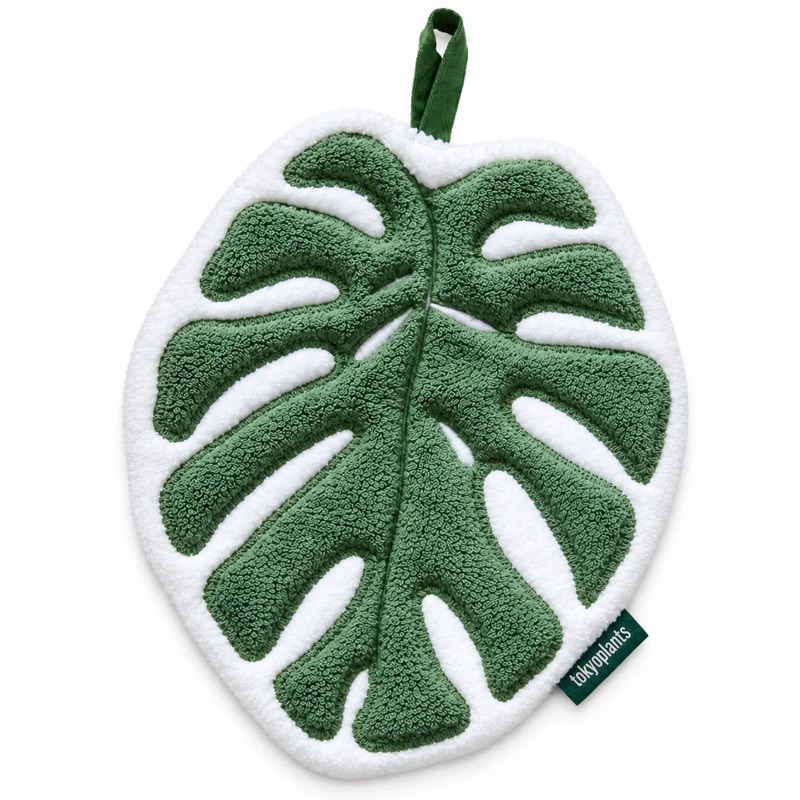
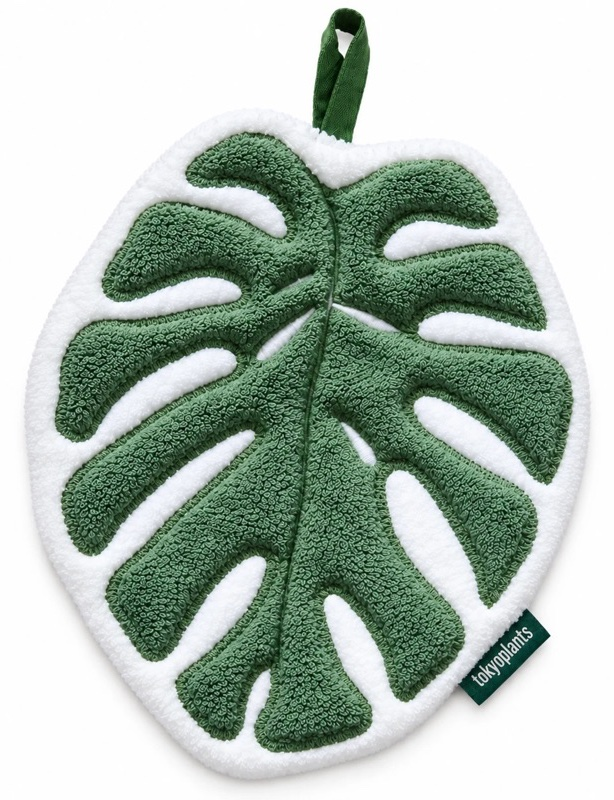
商品写真の並びを揃え、アプリ欄を詰め、カテゴリの新着を横スクロールに統一
- 商品写真の白い余白を切り落とし（切り抜きのみ・画素は変えていない）、枠の下端に揃えて置いた。
  選択ボタンの行はボタンの無いカードにも同じ高さで空け、4商品の高さと接地位置を揃えた
- アプリ欄は上下の余白とスマホ枠を小さくし、縦幅を約737px→532px（PC）に
- カテゴリの新着は「よく読まれている記事」と同じ横スクロールの棚（画面右端まで・矢印つき）に戻し、
  タブの配色もページに合わせた。前回の格子化は見切れの直し方として不適切だった

diff --git a/src/components/home/CollectionCard.tsx b/src/components/home/CollectionCard.tsx
@@ -11,7 +11,13 @@ import type { OwnProduct } from "@/lib/homeStorefront";
 //   color: 色の丸をタップすると、その色の写真に切り替わる（タオル）
 //   size:  容量のボタンで写真と価格が切り替わる（SOILの2L／10L）
 // 切り替えのボタンは全面リンクの上に重ねて押せるようにしている。
-export default function CollectionCard({ product, priority = false }: { product: OwnProduct; priority?: boolean }) {
+export default function CollectionCard({
+  product,
+  priority = false,
+}: {
+  product: OwnProduct;
+  priority?: boolean;
+}) {
   const variants = product.variants ?? [];
   const [active, setActive] = useState(0);
   const variant = variants[active];
@@ -30,9 +36,15 @@ export default function CollectionCard({ product, priority = false }: { product:
       />
       <div className="pointer-events-none relative flex flex-1 flex-col">
         <div className="px-6 pt-7 md:px-7 md:pt-8">
-          <p className="text-[12px] font-semibold text-[#2c6e52]">{product.kind}</p>
-          <h3 className="mt-2 text-[26px] font-semibold leading-[1.15] tracking-[-0.02em] xl:text-[24px]">{product.name}</h3>
-          <p className="mt-3 text-balance text-[14px] font-semibold leading-snug [word-break:auto-phrase]">{product.catchCopy}</p>
+          <p className="text-[12px] font-semibold text-[#2c6e52]">
+            {product.kind}
+          </p>
+          <h3 className="mt-2 text-[26px] font-semibold leading-[1.15] tracking-[-0.02em] xl:text-[24px]">
+            {product.name}
+          </h3>
+          <p className="mt-3 text-balance text-[14px] font-semibold leading-snug [word-break:auto-phrase]">
+            {product.catchCopy}
+          </p>
           <p className="mt-2 text-[14px] text-[#1d1d1f]">{price}</p>
         </div>
 
@@ -47,50 +59,68 @@ export default function CollectionCard({ product, priority = false }: { product:
               height={800}
               sizes="(min-width: 1280px) 270px, (min-width: 768px) 45vw, 82vw"
               priority={priority && active === 0}
-              className="h-full w-full object-contain transition-transform duration-500 group-hover:scale-[1.03]"
+              className="h-full w-full origin-bottom object-contain object-bottom transition-transform duration-500 group-hover:scale-[1.03]"
             />
           </div>
 
-          {product.variantStyle === "size" && variants.length > 1 && (
-            <div className="mt-3 flex justify-center">
-              <div className="pointer-events-auto relative z-10 inline-flex rounded-full bg-[#f5f5f7] p-1" role="group" aria-label="容量">
+          {/* 切り替えの行は、ボタンの無いカードにも同じ高さで空けておく（写真の位置を4枚で揃えるため） */}
+          <div className="mt-4 flex h-[34px] items-center justify-center">
+            {product.variantStyle === "size" && variants.length > 1 && (
+              <div className="flex justify-center">
+                <div
+                  className="pointer-events-auto relative z-10 inline-flex rounded-full bg-[#f5f5f7] p-1"
+                  role="group"
+                  aria-label="容量"
+                >
+                  {variants.map((v, i) => (
+                    <button
+                      key={v.name}
+                      type="button"
+                      onClick={() => setActive(i)}
+                      aria-pressed={i === active}
+                      className={`rounded-full px-4 py-1 text-[12px] font-semibold transition-colors ${
+                        i === active
+                          ? "bg-white text-[#1d1d1f] shadow-sm"
+                          : "text-[#6e6e73] hover:text-[#1d1d1f]"
+                      }`}
+                    >
+                      {v.name}
+                    </button>
+                  ))}
+                </div>
+              </div>
+            )}
+
+            {product.variantStyle === "color" && variants.length > 1 && (
+              <div
+                className="pointer-events-auto relative z-10 flex justify-center gap-2"
+                role="group"
+                aria-label={`カラー（全${variants.length}種）`}
+              >
                 {variants.map((v, i) => (
                   <button
                     key={v.name}
                     type="button"
                     onClick={() => setActive(i)}
                     aria-pressed={i === active}
-                    className={`rounded-full px-4 py-1 text-[12px] font-semibold transition-colors ${
-                      i === active ? "bg-white text-[#1d1d1f] shadow-sm" : "text-[#6e6e73] hover:text-[#1d1d1f]"
+                    aria-label={v.name}
+                    title={v.name}
+                    // 選択中の色は外側に細い輪をつける（Apple Storeの色選びと同じ見せ方）
+                    className={`flex h-[22px] w-[22px] shrink-0 items-center justify-center rounded-full transition ${
+                      i === active
+                        ? "ring-[1.5px] ring-[#1d1d1f] ring-offset-2"
+                        : "hover:ring-1 hover:ring-black/25 hover:ring-offset-2"
                     }`}
                   >
-                    {v.name}
+                    <span
+                      className="h-full w-full rounded-full ring-1 ring-inset ring-black/10"
+                      style={{ background: v.color }}
+                    />
                   </button>
                 ))}
               </div>
-            </div>
-          )}
-
-          {product.variantStyle === "color" && variants.length > 1 && (
-            <div className="pointer-events-auto relative z-10 mt-3 flex justify-center gap-2" role="group" aria-label={`カラー（全${variants.length}種）`}>
-              {variants.map((v, i) => (
-                <button
-                  key={v.name}
-                  type="button"
-                  onClick={() => setActive(i)}
-                  aria-pressed={i === active}
-                  aria-label={v.name}
-                  title={v.name}
-                  // 選択中の色は外側に細い輪をつける（Apple Storeの色選びと同じ見せ方）
-                  className={`flex h-[22px] w-[22px] shrink-0 items-center justify-center rounded-full transition ${
-                    i === active ? "ring-[1.5px] ring-[#1d1d1f] ring-offset-2" : "hover:ring-1 hover:ring-black/25 hover:ring-offset-2"
-                  }`}
-                >
-                  <span className="h-full w-full rounded-full ring-1 ring-inset ring-black/10" style={{ background: v.color }} />
-                </button>
-              ))}
-            </div>
-          )}
+            )}
+          </div>
         </div>
       </div>
     </article>

diff --git a/src/components/CategoryTabs.tsx b/src/components/CategoryTabs.tsx
@@ -5,12 +5,15 @@ import Link from "next/link";
 import { PostMeta } from "@/lib/posts";
 import { Category } from "@/lib/categories";
 import ArticleCard from "./ArticleCard";
+import ShelfScroller from "./home/ShelfScroller";
 
 interface CategoryTabData extends Category {
   posts: PostMeta[];
   totalCount: number;
 }
 
+// トップの「カテゴリの新着」。記事は「よく読まれている記事」と同じ横スクロールの棚で見せる。
+// タブと説明は見出しの幅（.store-gutter）に収め、棚だけ画面の右端まで流す。
 export default function CategoryTabs({ tabs }: { tabs: CategoryTabData[] }) {
   const [activeSlug, setActiveSlug] = useState(tabs[0]?.slug);
   const active = tabs.find((t) => t.slug === activeSlug) ?? tabs[0];
@@ -18,48 +21,52 @@ export default function CategoryTabs({ tabs }: { tabs: CategoryTabData[] }) {
 
   return (
     <div>
-      <div className="flex flex-wrap gap-2" role="tablist" aria-label="カテゴリ">
-        {tabs.map((tab) => (
-          <button
-            key={tab.slug}
-            type="button"
-            role="tab"
-            aria-selected={tab.slug === active.slug}
-            onClick={() => setActiveSlug(tab.slug)}
-            className={`rounded-full px-4 py-2 text-[13px] font-semibold transition-colors ${
-              tab.slug === active.slug
-                ? "bg-teal-700 text-white"
-                : "bg-white text-gray-500 border border-gray-200 hover:border-teal-300 hover:text-teal-700"
-            }`}
-          >
-            {tab.name}
-            <span className={`ml-1.5 ${tab.slug === active.slug ? "text-teal-100" : "text-gray-400"}`}>
-              {tab.totalCount}
-            </span>
-          </button>
-        ))}
-      </div>
+      <div className="store-gutter">
+        <div className="mx-auto max-w-[1180px]">
+          <div className="flex flex-wrap gap-2" role="tablist" aria-label="カテゴリ">
+            {tabs.map((tab) => (
+              <button
+                key={tab.slug}
+                type="button"
+                role="tab"
+                aria-selected={tab.slug === active.slug}
+                onClick={() => setActiveSlug(tab.slug)}
+                className={`rounded-full px-4 py-2 text-[13px] font-semibold transition-colors ${
+                  tab.slug === active.slug ? "bg-[#1d1d1f] text-white" : "bg-[#f5f5f7] text-[#1d1d1f] hover:bg-[#ebebf0]"
+                }`}
+              >
+                {tab.name}
+                <span className={`ml-1.5 font-normal ${tab.slug === active.slug ? "text-white/60" : "text-[#86868b]"}`}>
+                  {tab.totalCount}
+                </span>
+              </button>
+            ))}
+          </div>
 
-      <div className="mt-8 flex items-end justify-between">
-        <p className="text-sm leading-relaxed text-gray-400">{active.description}</p>
-        <Link
-          href={`/${active.slug}`}
-          className="hidden shrink-0 pl-4 text-[13px] font-medium text-gray-400 transition-colors hover:text-gray-900 sm:block"
-        >
-          すべて見る &rarr;
-        </Link>
+          <div className="mt-5 flex items-end justify-between">
+            <p className="text-[13px] leading-relaxed text-[#86868b]">{active.description}</p>
+            <Link
+              href={`/${active.slug}`}
+              className="hidden shrink-0 pl-4 text-[13px] font-medium text-[#2c6e52] hover:underline sm:block"
+            >
+              すべて見る ›
+            </Link>
+          </div>
+        </div>
       </div>
 
       {active.posts.length === 0 ? (
-        <p className="mt-10 text-sm text-gray-400">まだ記事がありません。</p>
+        <p className="store-gutter mt-10 text-sm text-[#86868b]">まだ記事がありません。</p>
       ) : (
-        // スマホは横スクロール、PCは格子。PCで横スクロールにすると見出し幅の右端で途中から切れて見えるため
-        <div className="mt-6 flex gap-5 overflow-x-auto scrollbar-hide snap-x snap-mandatory px-4 -mx-4 md:mx-0 md:grid md:grid-cols-3 md:overflow-visible md:px-0 xl:grid-cols-4">
-          {active.posts.map((post) => (
-            <div key={`${post.category}-${post.slug}`} className="w-[280px] shrink-0 snap-start md:w-auto">
-              <ArticleCard post={post} />
-            </div>
-          ))}
+        <div className="mt-5">
+          {/* タブを切り替えたら棚を先頭から見せる */}
+          <ShelfScroller key={active.slug} label={`${active.name}の新着`}>
+            {active.posts.map((post) => (
+              <div key={`${post.category}-${post.slug}`} className="w-[78%] shrink-0 snap-start sm:w-[300px]">
+                <ArticleCard post={post} />
+              </div>
+            ))}
+          </ShelfScroller>
         </div>
       )}
     </div>

diff --git a/src/components/home/AppShowcase.tsx b/src/components/home/AppShowcase.tsx
@@ -36,7 +36,7 @@ export default function AppShowcase() {
   }, []);
 
   return (
-    <section id="app" aria-labelledby="app-heading" className="scroll-mt-16 bg-[#f6f4ef] py-16 md:py-24">
+    <section id="app" aria-labelledby="app-heading" className="scroll-mt-16 bg-[#f6f4ef] py-12 md:py-14">
       <div className="store-gutter">
         {/* スマホは /app と同じく「紹介文 → 動画 → ボタン」の順。PCは左に文章とボタン、右に動画 */}
         <div className="mx-auto grid max-w-[1180px] gap-8 md:grid-cols-[1fr_auto] md:grid-rows-[auto_auto] md:gap-x-16 lg:gap-x-24">
@@ -47,13 +47,13 @@ export default function AppShowcase() {
             </div>
             <h2
               id="app-heading"
-              className="mt-5 text-[28px] font-bold leading-[1.4] tracking-tight text-[#16352A] [word-break:auto-phrase] md:text-[38px]"
+              className="mt-4 text-[28px] font-bold leading-[1.4] tracking-tight text-[#16352A] [word-break:auto-phrase] md:text-[34px]"
             >
               植物のお世話が、
               <br />
               コレクションになる。
             </h2>
-            <p className="mt-5 text-[15px] leading-[1.9] text-[#4b4b50] [word-break:auto-phrase] md:text-[16px]">
+            <p className="mt-4 text-[15px] leading-[1.9] text-[#4b4b50] [word-break:auto-phrase] md:text-[16px]">
               開くたびに、育てている植物が降ってくる。
               <br />
               観葉植物の専門店がつくった、育てる楽しさが続くアプリ。
@@ -72,9 +72,9 @@ export default function AppShowcase() {
           </div>
 
           {/* 端末の枠は /app の HeroVideo と同じ比率（角丸・黒縁・フレーム） */}
-          <div className="row-start-2 mx-auto w-[190px] rounded-[33px] bg-[#55525A] p-[2px] shadow-[0_24px_50px_rgba(22,53,42,0.22)] sm:w-[220px] md:col-start-2 md:row-span-2 md:row-start-1 md:w-[250px] md:self-center md:rounded-[41px]">
-            <div className="rounded-[31px] bg-[#101014] p-[4px] md:rounded-[39px]">
-              <div className="relative aspect-[440/956] overflow-hidden rounded-[27px] bg-[#f6f3ec] md:rounded-[35px]">
+          <div className="row-start-2 mx-auto w-[190px] rounded-[33px] bg-[#55525A] p-[2px] shadow-[0_24px_50px_rgba(22,53,42,0.22)] sm:w-[220px] md:col-start-2 md:row-span-2 md:row-start-1 md:w-[200px] md:self-center md:rounded-[35px]">
+            <div className="rounded-[31px] bg-[#101014] p-[4px] md:rounded-[33px]">
+              <div className="relative aspect-[440/956] overflow-hidden rounded-[27px] bg-[#f6f3ec] md:rounded-[29px]">
                 <video
                   ref={videoRef}
                   muted

diff --git a/src/components/home/StoreHome.tsx b/src/components/home/StoreHome.tsx
@@ -175,14 +175,19 @@ export default function StoreHome() {
           </div>
         )}
 
+        {/* 記事の棚は「よく読まれている記事」と同じく画面の右端まで流すため、幅を絞った枠の外に置く */}
+        <div className="mt-14">
+          <div className="store-gutter">
+            <h3 className="mx-auto max-w-[1180px] text-[19px] font-semibold md:text-[21px]">カテゴリの新着</h3>
+          </div>
+          <div className="mt-5">
+            <CategoryTabs tabs={categoryTabs} />
+          </div>
+        </div>
+
         <div className="store-gutter mt-14">
           <div className="mx-auto max-w-[1180px]">
-            <h3 className="text-[19px] font-semibold md:text-[21px]">カテゴリの新着</h3>
-            <div className="mt-6">
-              <CategoryTabs tabs={categoryTabs} />
-            </div>
-
-            <h3 className="mt-14 text-[19px] font-semibold md:text-[21px]">タグから探す</h3>
+            <h3 className="text-[19px] font-semibold md:text-[21px]">タグから探す</h3>
             <div className="mt-4 flex flex-wrap gap-2">
               {popularTags.map(({ tag }) => (
                 <Link
